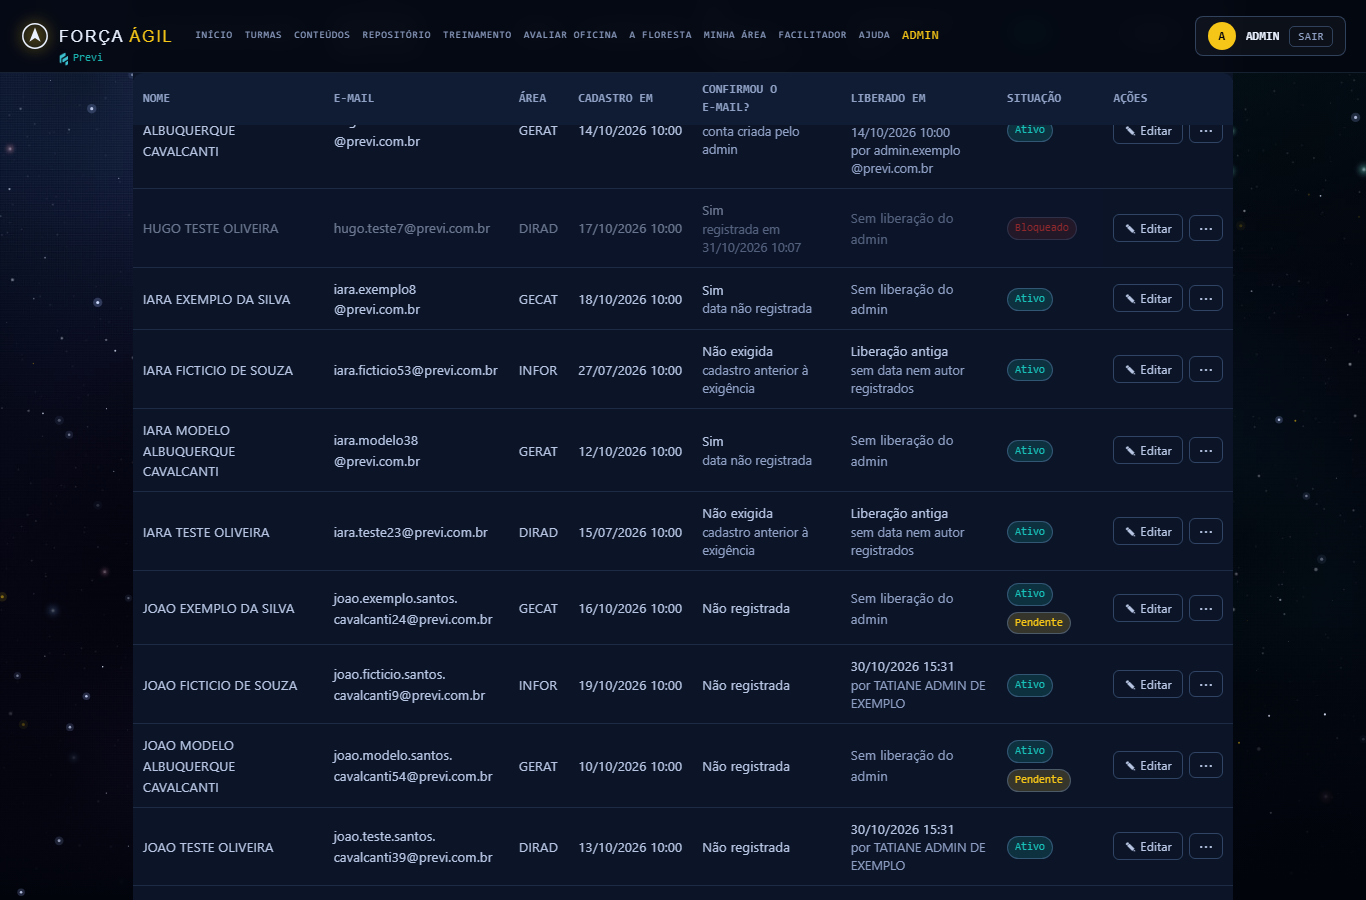
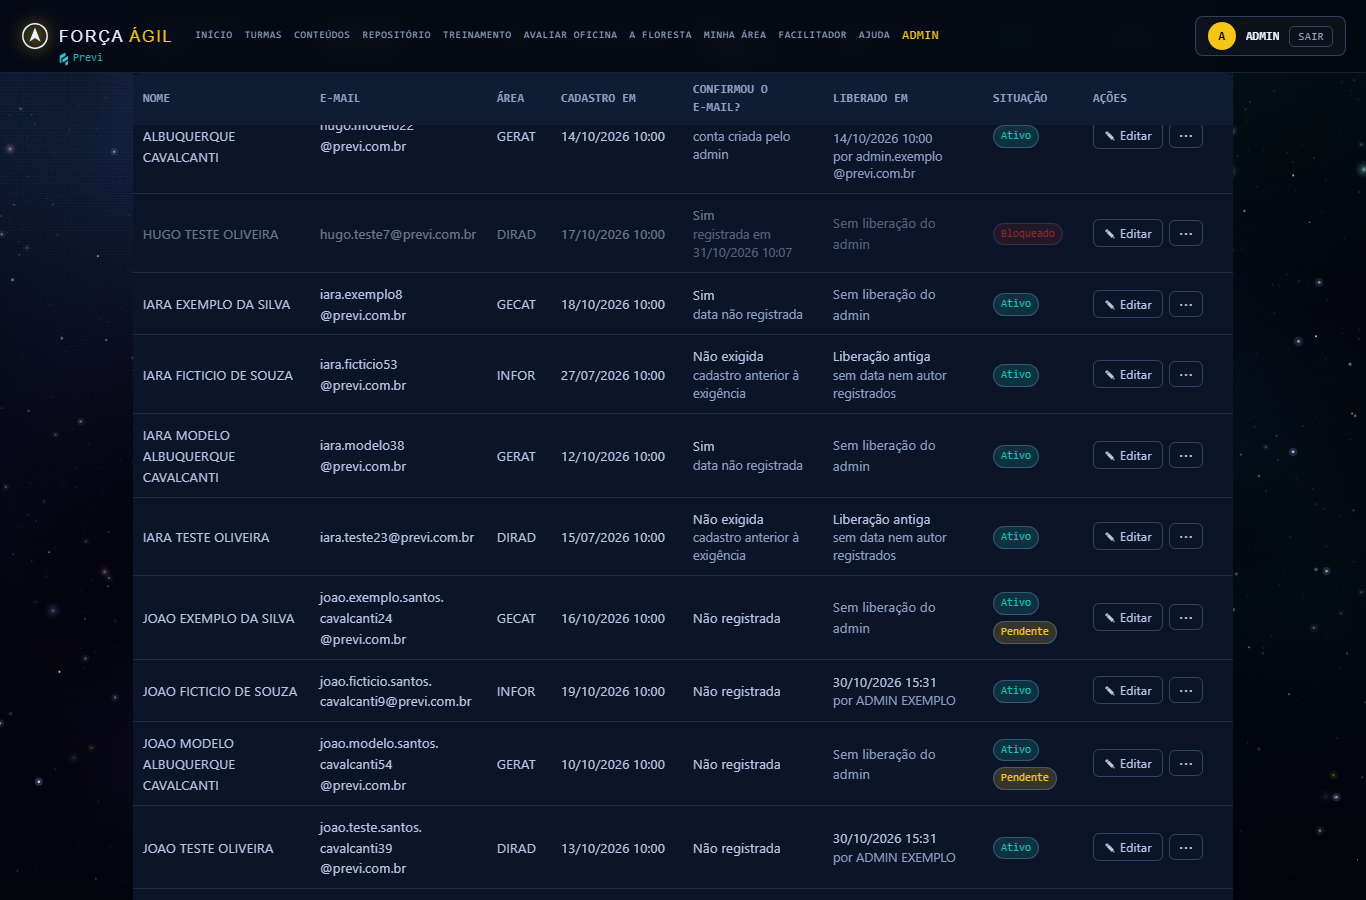
Cadastrados: larguras por coluna — conteúdo longo não alarga a tabela; cartões abaixo de 1180 px
- Com os cadastros reais (nomes de 42 letras sem espaço, e-mail de 55 caracteres) a tabela ficava com 1.273 px
  numa caixa de 1.100 px e a coluna Ações saía da tela. Agora table-layout: fixed com larguras por coluna (Nome e
  E-mail dividem o resto); o texto quebra nos espaços, antes do "@" e nos pontos e só parte uma palavra que
  sozinha não caiba — nada truncado nem escondido. Botões de Ações nunca cortados.
- Tabela (com cabeçalho fixo) a partir de 1180 px, quando a caixa atinge a largura máxima; abaixo, cartões.
- Teste: casos extremos fictícios e verificação em 375, 1024, 1179, 1180, 1280, 1366 e 1920 px (8 células e
  botões inteiros, sem sobreposição, sem rolagem lateral ou interna); cabeçalho fixo em 1180–1920 px.

diff --git a/.github/scripts/teste-cadastrados-filtros.js b/.github/scripts/teste-cadastrados-filtros.js
@@ -56,8 +56,16 @@ function muitos() {
     const em = 'zz.lista.exemplo.' + i + '@previ.com.br';
     u[chave(em)] = { email: em, name: 'ZZ LISTA EXEMPLO ' + String(i).padStart(2, '0'), area: 'GECAT', createdAt: meioDia(40), emailVerificationRequired: true, emailConfirmado: true, emailConfirmadoEm: Date.now() - DIA };
   }
+  /* casos extremos (como existem nos dados reais): nome de 42+ letras sem espaço, e-mails de 55+ caracteres — com e sem
+     pontos no nome do e-mail —, e quem liberou com e-mail comprido sem cadastro */
+  LONGOS.forEach((l, i) => { u[chave(l.email)] = Object.assign({ email: l.email, name: l.name, area: 'GECAT', createdAt: meioDia(40), emailVerificationRequired: true }, l.extra); });
   return u;
 }
+const LONGOS = [
+  { name: 'MMPESSOAEXEMPLOCOMNOMEMUITOLONGOSEMNENHUMESPACO', email: 'pessoa.exemplo.com.nome.de.email.muito.comprido.mesmo@previ.com.br', extra: { emailConfirmado: true, emailConfirmadoEm: Date.now() - DIA } },
+  { name: 'MM PESSOA EXEMPLO DE ALBUQUERQUE CAVALCANTI DOS SANTOS OLIVEIRA', email: 'pessoaexemplosempontosnonomedoemailmuitocompridomesmo@previ.com.br', extra: { adminApproved: true, approvedAt: meioDia(3), approvedByAdmin: 'administradora.exemplo.com.email.muito.comprido@previ.com.br', approvedByAdminName: 'ADMINISTRADORA EXEMPLO COM NOME MUITO COMPRIDO' } },
+  { name: 'MMOUTRAPESSOAEXEMPLOSEMESPACOSNONOMEDOCADASTRO', email: 'outra.pessoa.exemplo.com.um.endereco.de.email.bem.longo.x@previ.com.br', extra: { adminApproved: true, createdByAdmin: 'administradora.exemplo.com.email.muito.comprido@previ.com.br' } },
+];
 function banco(users) {
   const admins = {}; admins[chave(ADM)] = { email: ADM, name: 'ADMIN EXEMPLO' };
   return { 'fa-users': users, 'fa-admins': admins, 'fa-diretores': {}, 'fa-facilitadores': {}, 'fa-users-log': {}, 'fa-progress': {},
@@ -103,7 +111,7 @@ const ord = (a) => JSON.stringify(a.slice().sort());
   }
 
   /* 1. Cabeçalho fixo e foco, no computador */
-  for (const w of [1366, 1024]) {
+  for (const w of [1920, 1366, 1280, 1180]) {
     console.log('\n===== CABEÇALHO FIXO — ' + w + ' px =====');
     /* movimento reduzido: o próprio CSS do site troca a rolagem suave pela instantânea — a medida não depende da velocidade da máquina */
     const { ctx, page, erros } = await abrir(browser, { viewport: { width: w, height: 800 }, reducedMotion: 'reduce' }, muitos());
@@ -342,6 +350,60 @@ const ord = (a) => JSON.stringify(a.slice().sort());
     await ctx.close();
   }
 
+  /* 4c. Larguras pedidas, com nomes e e-mails extremos: tabela (≥ 1180) ou cartões (≤ 1179); nenhuma das 8 informações
+     cortada, escondida ou truncada; botões inteiros, sem sobreposição; sem rolagem lateral nem vertical interna */
+  console.log('\n===== LARGURAS (375 a 1920 px, nomes e e-mails longos) =====');
+  for (const w of [375, 1024, 1179, 1180, 1280, 1366, 1920]) {
+    const opts = w === 375 ? Object.assign({}, devices['iPhone 13'], { viewport: { width: 375, height: 812 } }) : { viewport: { width: w, height: 900 } };
+    const { ctx, page, erros } = await abrir(browser, opts, muitos());
+    await status(page, 'todos');
+    await page.waitForTimeout(200);
+    const m = await page.evaluate((longos) => {
+      const wrap = document.querySelector('#adminCadastrados .table-scroll-wrap'), wr = wrap.getBoundingClientRect();
+      const cartoes = getComputedStyle(document.querySelector('#adminCadastrados thead')).display === 'none';
+      const prob = [];
+      const linhas = Array.from(document.querySelectorAll('#adminCadastrados tbody tr'));
+      linhas.forEach((tr) => {
+        const email = tr.querySelector('td[data-label="E-mail"]').textContent.trim();
+        const tds = Array.from(tr.children);
+        if (tds.length !== 8) prob.push(email + ': ' + tds.length + ' células');
+        tds.forEach((td) => {
+          const r = td.getBoundingClientRect(), cs = getComputedStyle(td);
+          if (!r.width || !r.height || cs.visibility === 'hidden') prob.push(email + ': ' + td.dataset.label + ' invisível');
+          if (r.left < wr.left - 0.5 || r.right > wr.right + 0.5 || r.right > innerWidth + 0.5) prob.push(email + ': ' + td.dataset.label + ' sai da caixa');
+          if (td.scrollWidth > td.clientWidth + 1) prob.push(email + ': ' + td.dataset.label + ' transborda (' + td.scrollWidth + ' > ' + td.clientWidth + ')');
+          td.querySelectorAll('*').forEach((x) => { const c = getComputedStyle(x); if (c.textOverflow === 'ellipsis' && c.overflow !== 'visible') prob.push(email + ': reticências em ' + td.dataset.label); });
+          if (cartoes && td.dataset.label !== 'Nome' && getComputedStyle(td, '::before').content.replace(/"/g, '') !== td.dataset.label) prob.push(email + ': cartão sem o rótulo ' + td.dataset.label);
+        });
+        const bs = Array.from(tr.querySelectorAll('.cad-acoes button'));
+        const acoes = tr.querySelector('td[data-label="Ações"]').getBoundingClientRect();
+        bs.forEach((b) => { const r = b.getBoundingClientRect();
+          if (r.left < acoes.left - 0.5 || r.right > acoes.right + 0.5 || r.right > innerWidth + 0.5) prob.push(email + ': botão "' + b.textContent.trim() + '" cortado');
+          if (r.height < (cartoes ? 40 : 24)) prob.push(email + ': botão baixo demais (' + Math.round(r.height) + 'px)'); });
+        if (bs.length === 2) { const a = bs[0].getBoundingClientRect(), c = bs[1].getBoundingClientRect();
+          if (!(a.right <= c.left || c.right <= a.left || a.bottom <= c.top || c.bottom <= a.top)) prob.push(email + ': botões sobrepostos'); }
+      });
+      /* o texto completo está lá (nada truncado): nome e e-mail dos casos extremos aparecem por inteiro */
+      longos.forEach((l) => {
+        const tr = linhas.find((x) => x.querySelector('td[data-label="E-mail"]').textContent.trim() === l.email);
+        if (!tr) prob.push('caso longo ausente: ' + l.email.slice(0, 20));
+        else if (tr.querySelector('td[data-label="Nome"]').textContent.trim() !== l.name) prob.push('nome longo incompleto');
+      });
+      return { cartoes, prob: prob.slice(0, 6), nProb: prob.length,
+        ladoPagina: document.documentElement.scrollWidth > innerWidth + 1, ladoCaixa: wrap.scrollWidth > wrap.clientWidth + 1,
+        internaV: getComputedStyle(wrap).overflowY !== 'visible' && wrap.scrollHeight > wrap.clientHeight + 1,
+        larguraTabela: Math.round(wrap.querySelector('table').getBoundingClientRect().width), larguraCaixa: Math.round(wr.width) };
+    }, LONGOS.map((l) => ({ email: l.email, name: l.name })));
+    const p = [];
+    if (m.cartoes !== (w < 1180)) p.push(w < 1180 ? 'deveria estar em cartões' : 'deveria estar em tabela');
+    if (m.ladoPagina || m.ladoCaixa) p.push('rolagem lateral (tabela ' + m.larguraTabela + ' px, caixa ' + m.larguraCaixa + ' px)');
+    if (m.internaV) p.push('rolagem vertical interna');
+    if (m.nProb) p.push(m.nProb + ' problema(s): ' + m.prob.join(' | '));
+    if (erros.length) p.push('erro JS: ' + erros[0]);
+    registrar(w + ' px (' + (m.cartoes ? 'cartões' : 'tabela') + '): as 8 informações e as ações inteiras, sem corte, sobreposição nem rolagem lateral', p);
+    await ctx.close();
+  }
+
   /* 5. Celular */
   console.log('\n===== CELULAR (375 px) =====');
   {
@@ -363,7 +425,7 @@ const ord = (a) => JSON.stringify(a.slice().sort());
     if (m.foraTela) p.push(m.foraTela + ' controle(s) saindo da tela');
     await escolher(page, 'cadFiltroLib', 'liberado');
     const tela = await emailsNaTela(page);
-    if (ord(tela) !== ord([e('a3'), e('a7')])) p.push('filtro no celular: ' + JSON.stringify(tela));
+    if (ord(tela) !== ord([e('a3'), e('a7'), LONGOS[1].email])) p.push('filtro no celular: ' + JSON.stringify(tela));
     const m2 = await page.evaluate(() => ({ lado: document.documentElement.scrollWidth > innerWidth + 1,
       fora: Array.from(document.querySelectorAll('#cadMaisFiltros select, #cadMaisFiltros input')).filter((x) => x.offsetParent && x.getBoundingClientRect().right > innerWidth + 0.5).length }));
     if (m2.lado || m2.fora) p.push('com "Mais filtros" aberto, algo sai da tela');

diff --git a/forca-agil/pages.css b/forca-agil/pages.css
@@ -803,9 +803,8 @@
 #adminCadastrados .cad-nada { color: var(--ink-3); }
 #adminCadastrados .cad-sub { display: block; font-size: var(--arq-fs-meta); color: var(--ink-3); line-height: 1.4; }
 #adminCadastrados .cad-data { white-space: nowrap; font-variant-numeric: tabular-nums; }
-#adminCadastrados .cad-acoes { flex-wrap: nowrap; }
-/* 1024–1099 px: os dois botões podem ficar um embaixo do outro — com fontes mais largas (Linux) a tabela não cabe com eles lado a lado */
-@media (min-width: 1024px) and (max-width: 1099px) { #adminCadastrados .cad-acoes { flex-wrap: wrap; } }
+/* Os dois botões lado a lado; um embaixo do outro só se a coluna não os comportar (fonte mais larga) — nunca cortados. */
+#adminCadastrados .cad-acoes { flex-wrap: wrap; }
 #adminCadastrados .cad-vazio { padding: 18px 14px; color: var(--ink-3); text-align: center; border: 1px dashed var(--line-strong); border-radius: 10px; }
 
 /* Filtros: situação e busca sempre à vista; o resto em "Mais filtros" (recolhível); depois, resultado, ordem, limpar e
@@ -841,12 +840,25 @@
 
 /* Computador: cabeçalho fixo na rolagem. Quem rola é a página (o html); o cabeçalho cola logo abaixo do menu fixo
    (.nav, 73 px; --nav-h quando definido). Para o sticky funcionar, nenhum ancestral da tabela pode ter overflow
-   próprio — por isso, só aqui, a caixa e a tabela deixam de cortar o que passa (a tabela cabe na largura: e-mails e
-   textos quebram dentro das células; o teste mede que nada rola nem fica cortado). Fundo opaco, abaixo do menu. Os
-   controles da linha ganham scroll-margin, para o foco do teclado nunca parar atrás do cabeçalho. */
-@media (min-width: 1024px) {
+   próprio — por isso, só aqui, a caixa e a tabela deixam de cortar o que passa. Para isso ser seguro, a tabela NUNCA
+   pode ficar mais larga que a caixa: larguras por coluna (table-layout: fixed), e não pelo conteúdo — um nome de 42
+   letras sem espaço ou um e-mail de 55 caracteres alargavam a tabela inteira e cortavam a coluna Ações. As colunas de
+   conteúdo curto têm largura fixa (cabem a data e hora, o selo, os dois botões); Nome e E-mail dividem o resto. O texto
+   quebra nos espaços, antes do "@" e nos pontos; só um pedaço que sozinho não caiba é partido no meio
+   (overflow-wrap) — nada é truncado nem escondido. Fundo opaco, abaixo do menu. Os controles da linha ganham
+   scroll-margin, para o foco do teclado nunca parar atrás do cabeçalho. A partir de 1180 px a caixa já tem a largura
+   máxima (1100 px): abaixo disso, cartões. */
+@media (min-width: 1180px) {
   #adminCadastrados .table-scroll-wrap,
   #adminCadastrados .admin-table { overflow: visible; }
+  #adminCadastrados .admin-table { table-layout: fixed; width: 100%; }
+  #adminCadastrados .admin-table th:nth-child(3) { width: 64px; }   /* Área */
+  #adminCadastrados .admin-table th:nth-child(4) { width: 132px; }  /* Cadastro em */
+  #adminCadastrados .admin-table th:nth-child(5) { width: 140px; }  /* Confirmou o e-mail? */
+  #adminCadastrados .admin-table th:nth-child(6) { width: 160px; }  /* Liberado em */
+  #adminCadastrados .admin-table th:nth-child(7) { width: 100px; }  /* Situação */
+  #adminCadastrados .admin-table th:nth-child(8) { width: 150px; }  /* Ações */
+  #adminCadastrados .admin-table td { overflow-wrap: break-word; }
   #adminCadastrados .admin-table thead th {
     position: sticky; top: var(--nav-h, 73px); z-index: 2;
     background: var(--panel-2); box-shadow: 0 1px 0 var(--line-strong);
@@ -855,14 +867,13 @@
   #adminCadastrados .admin-table thead th:last-child  { border-top-right-radius: 10px; }
   #adminCadastrados .admin-table th, #adminCadastrados .admin-table td { vertical-align: middle; padding-left: 10px; padding-right: 10px; }
   #adminCadastrados .admin-table tbody :is(button, a, [tabindex]) { scroll-margin-top: calc(var(--nav-h, 73px) + 64px); }
-  #adminCadastrados .cad-col-nome { min-width: 9em; }
 }
 
 /* Celular e tela estreita: a tabela deixa de ser tabela. Esconder colunas (como era antes) escondia informação; rolar
    de lado uma tabela de 40 linhas põe a barra de rolagem a milhares de pixels de distância do dedo. Cada pessoa vira
    um cartão, com o rótulo de cada campo vindo do data-label da célula — nada fica escondido e nada rola para o lado.
-   Até 1023 px: as oito colunas não cabem lado a lado sem cortar (medido com nomes e e-mails longos). */
-@media (max-width: 1023px) {
+   Até 1179 px: abaixo da largura máxima da caixa, as oito colunas ficariam estreitas demais para ler. */
+@media (max-width: 1179px) {
   #adminCadastrados .admin-table,
   #adminCadastrados .admin-table tbody,
   #adminCadastrados .admin-table tr,
@@ -883,6 +894,7 @@
     text-transform: uppercase; color: var(--ink-3);
   }
   #adminCadastrados .admin-table td > .cad-celula { min-width: 0; }
+  #adminCadastrados .admin-table td { overflow-wrap: break-word; min-width: 0; }
   /* O nome é o título do cartão, não mais um campo entre outros. */
   #adminCadastrados .admin-table td[data-label="Nome"] {
     display: block; text-align: left; color: var(--ink);

diff --git a/docs/referencia-tecnica.md b/docs/referencia-tecnica.md
@@ -141,7 +141,7 @@ Para **quem pode ler e gravar**, a fonte é sempre `database.rules.json`.
 
 | Nó | Finalidade | Módulos | Observação |
 |---|---|---|---|
-| `fa-users` | Perfil de cada cadastro (nome, área, e-mail, situação). `emailConfirmado` (true) + `emailConfirmadoEm` (horário do servidor): anotação da confirmação do e-mail. | admin, auth, avaliacao-produto, pedidos | Confirmação do e-mail ≠ liberação pelo admin (`adminApproved`/`approvedAt`, `createdByAdmin`). A confirmação mora no Firebase Auth; o site a anota no cadastro no login (`auth.js` `anotarEmailConfirmado`), uma vez, só com o token dizendo `email_verified`, no cadastro do próprio e-mail; `emailConfirmadoEm` é quando o SITE registrou, não o clique no link; sem `emailConfirmadoEm` = confirmação anterior registrada pela anotação única a partir do Auth. As regras (`.validate`) não deixam criar a marca sem isso, nem apagar ou mudar marca e data depois (`teste-rules-email-confirmado.js`). Não muda acesso. ADMIN › Cadastrados: filtro "Pendentes" (cadastro próprio sem confirmação registrada, sem liberação e sem bloqueio) e colunas "Confirmou o e-mail?"/"Liberado em" por um critério só (`admin.js` `situacaoCadastro`), igual na tela, nas contagens, no menu ⋯ e no Excel (`teste-cadastrados-pendentes.js`). Categorias únicas (célula, filtros e Excel): confirmação (`confirmacaoCadastro`) = Sim (com a data do registro, ou "data não registrada" na anotação única) / Não registrada (o banco não distingue "não confirmou" de "confirmou e ainda não voltou ao site") / Não exigida (conta criada pelo admin ou cadastro anterior à exigência de 14/08/2026); liberação (`liberacaoCadastro`) = pelo admin (botão: data e quem, desde 15/08/2026) / conta criada pelo admin / liberação antiga, sem data nem autor (`adminApproved` sem `approvedAt` nem `createdByAdmin`: todos cadastros anteriores à exigência; quem e quando marcou não existe) / sem liberação. Filtros combináveis (situação e busca à vista; área, confirmação, liberação, liberado por e data do cadastro em "Mais filtros"; opções só do que está gravado), ordenação por nome, cadastro e liberação; o Excel baixa o conjunto da tela, na ordem da tela. "Liberado por": a identidade é o e-mail gravado (`approvedByAdmin`/`createdByAdmin`; não há UID), com o nome ATUAL do cadastro desse e-mail na tela, no filtro e no Excel (o nome gravado na época, ex. apelido, continua no banco); liberação sem e-mail gravado fica separada pelo nome, nunca unida por semelhança. Computador (≥ 1024 px): cabeçalho da tabela fixo abaixo do menu (73 px), sem rolagem interna; até 1023 px, cartões (`teste-cadastrados-filtros.js`). A correção de e-mail (troca de chave) não leva a confirmação do e-mail antigo. Limite antigo: `fa-users/<chave>` aceita escrita de qualquer pessoa logada `@previ.com.br` (os demais campos não são protegidos por regra). Nome/área editáveis no ADMIN › Cadastrados. O nome de pessoa é sempre gravado em maiúsculas e sem acentos (`faTurmasUtil.nomePessoa`), em toda porta que grava nome: cadastro, criar conta, editar cadastro, listas do ADMIN e inclusão em turma (`teste-editar-cadastro.js`). |
+| `fa-users` | Perfil de cada cadastro (nome, área, e-mail, situação). `emailConfirmado` (true) + `emailConfirmadoEm` (horário do servidor): anotação da confirmação do e-mail. | admin, auth, avaliacao-produto, pedidos | Confirmação do e-mail ≠ liberação pelo admin (`adminApproved`/`approvedAt`, `createdByAdmin`). A confirmação mora no Firebase Auth; o site a anota no cadastro no login (`auth.js` `anotarEmailConfirmado`), uma vez, só com o token dizendo `email_verified`, no cadastro do próprio e-mail; `emailConfirmadoEm` é quando o SITE registrou, não o clique no link; sem `emailConfirmadoEm` = confirmação anterior registrada pela anotação única a partir do Auth. As regras (`.validate`) não deixam criar a marca sem isso, nem apagar ou mudar marca e data depois (`teste-rules-email-confirmado.js`). Não muda acesso. ADMIN › Cadastrados: filtro "Pendentes" (cadastro próprio sem confirmação registrada, sem liberação e sem bloqueio) e colunas "Confirmou o e-mail?"/"Liberado em" por um critério só (`admin.js` `situacaoCadastro`), igual na tela, nas contagens, no menu ⋯ e no Excel (`teste-cadastrados-pendentes.js`). Categorias únicas (célula, filtros e Excel): confirmação (`confirmacaoCadastro`) = Sim (com a data do registro, ou "data não registrada" na anotação única) / Não registrada (o banco não distingue "não confirmou" de "confirmou e ainda não voltou ao site") / Não exigida (conta criada pelo admin ou cadastro anterior à exigência de 14/08/2026); liberação (`liberacaoCadastro`) = pelo admin (botão: data e quem, desde 15/08/2026) / conta criada pelo admin / liberação antiga, sem data nem autor (`adminApproved` sem `approvedAt` nem `createdByAdmin`: todos cadastros anteriores à exigência; quem e quando marcou não existe) / sem liberação. Filtros combináveis (situação e busca à vista; área, confirmação, liberação, liberado por e data do cadastro em "Mais filtros"; opções só do que está gravado), ordenação por nome, cadastro e liberação; o Excel baixa o conjunto da tela, na ordem da tela. "Liberado por": a identidade é o e-mail gravado (`approvedByAdmin`/`createdByAdmin`; não há UID), com o nome ATUAL do cadastro desse e-mail na tela, no filtro e no Excel (o nome gravado na época, ex. apelido, continua no banco); liberação sem e-mail gravado fica separada pelo nome, nunca unida por semelhança. Computador (≥ 1180 px, caixa na largura máxima): cabeçalho da tabela fixo abaixo do menu (73 px), sem rolagem interna, larguras por coluna (table-layout: fixed) — nenhum conteúdo alarga a tabela; texto quebra nos espaços, antes do "@" e nos pontos, e só parte uma palavra que sozinha não caiba (nada truncado); até 1179 px, cartões (`teste-cadastrados-filtros.js`). A correção de e-mail (troca de chave) não leva a confirmação do e-mail antigo. Limite antigo: `fa-users/<chave>` aceita escrita de qualquer pessoa logada `@previ.com.br` (os demais campos não são protegidos por regra). Nome/área editáveis no ADMIN › Cadastrados. O nome de pessoa é sempre gravado em maiúsculas e sem acentos (`faTurmasUtil.nomePessoa`), em toda porta que grava nome: cadastro, criar conta, editar cadastro, listas do ADMIN e inclusão em turma (`teste-editar-cadastro.js`). |
 | `fa-users-log` | Histórico das correções de cadastro feitas pelo ADMIN. | admin | Só admin grava. |
 | `fa-admins` | Quem é admin (além da lista fixa em `auth.js`). | admin, auth, pedidos | Cada pessoa lê só o próprio registro. |
 | `fa-diretores` | Quem vê eventos marcados "só para diretores e administradores". | admin, auth | Não dá acesso de admin. |
